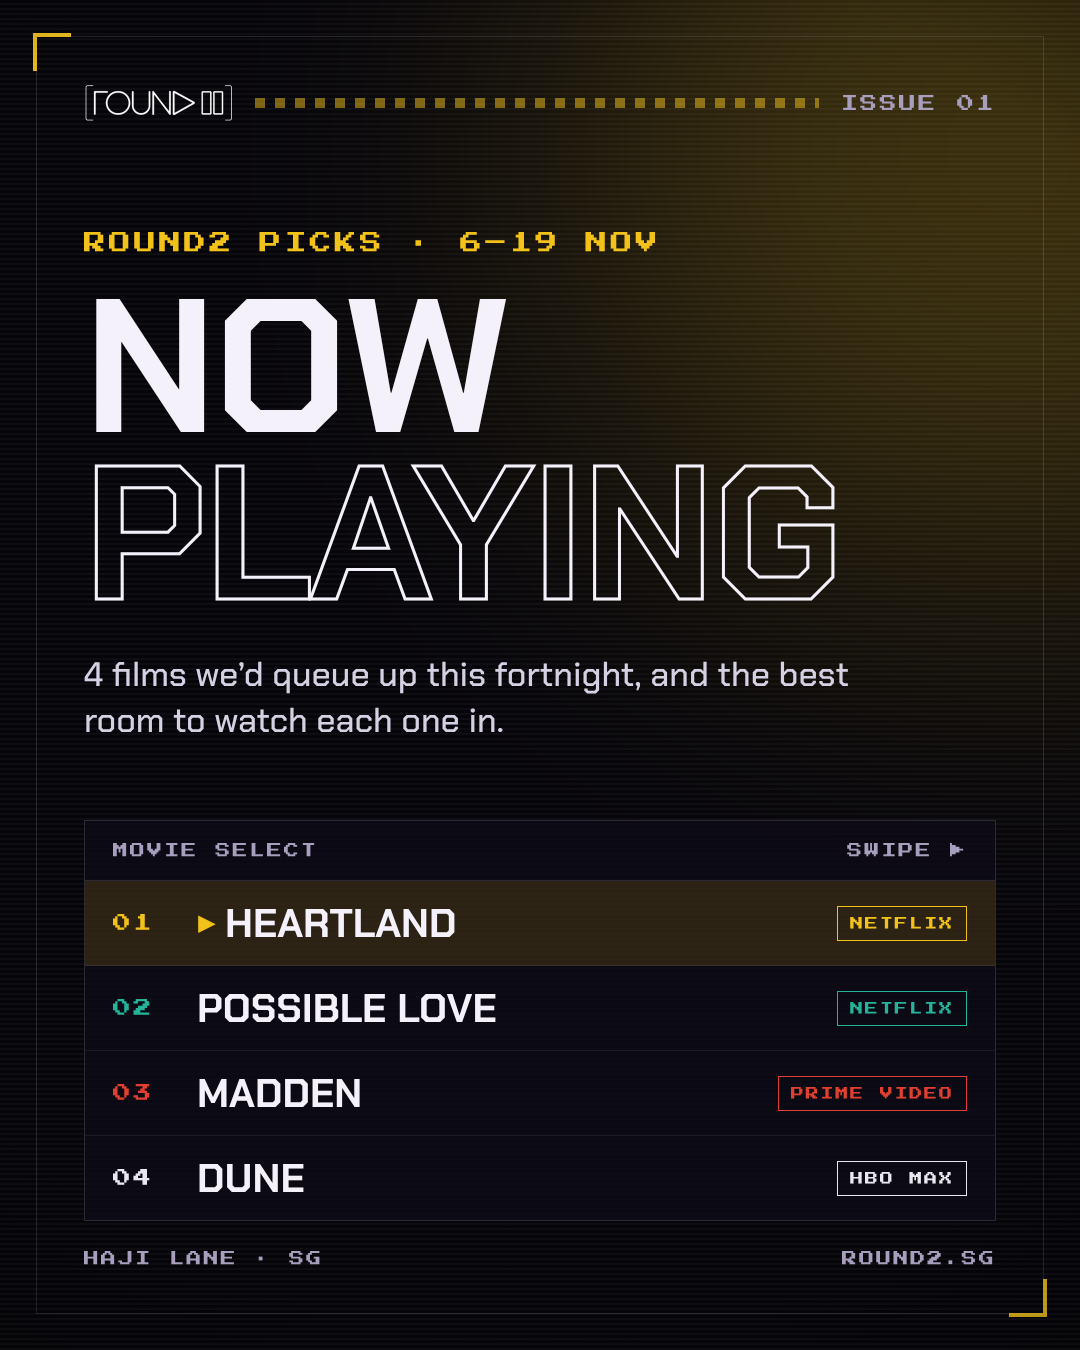
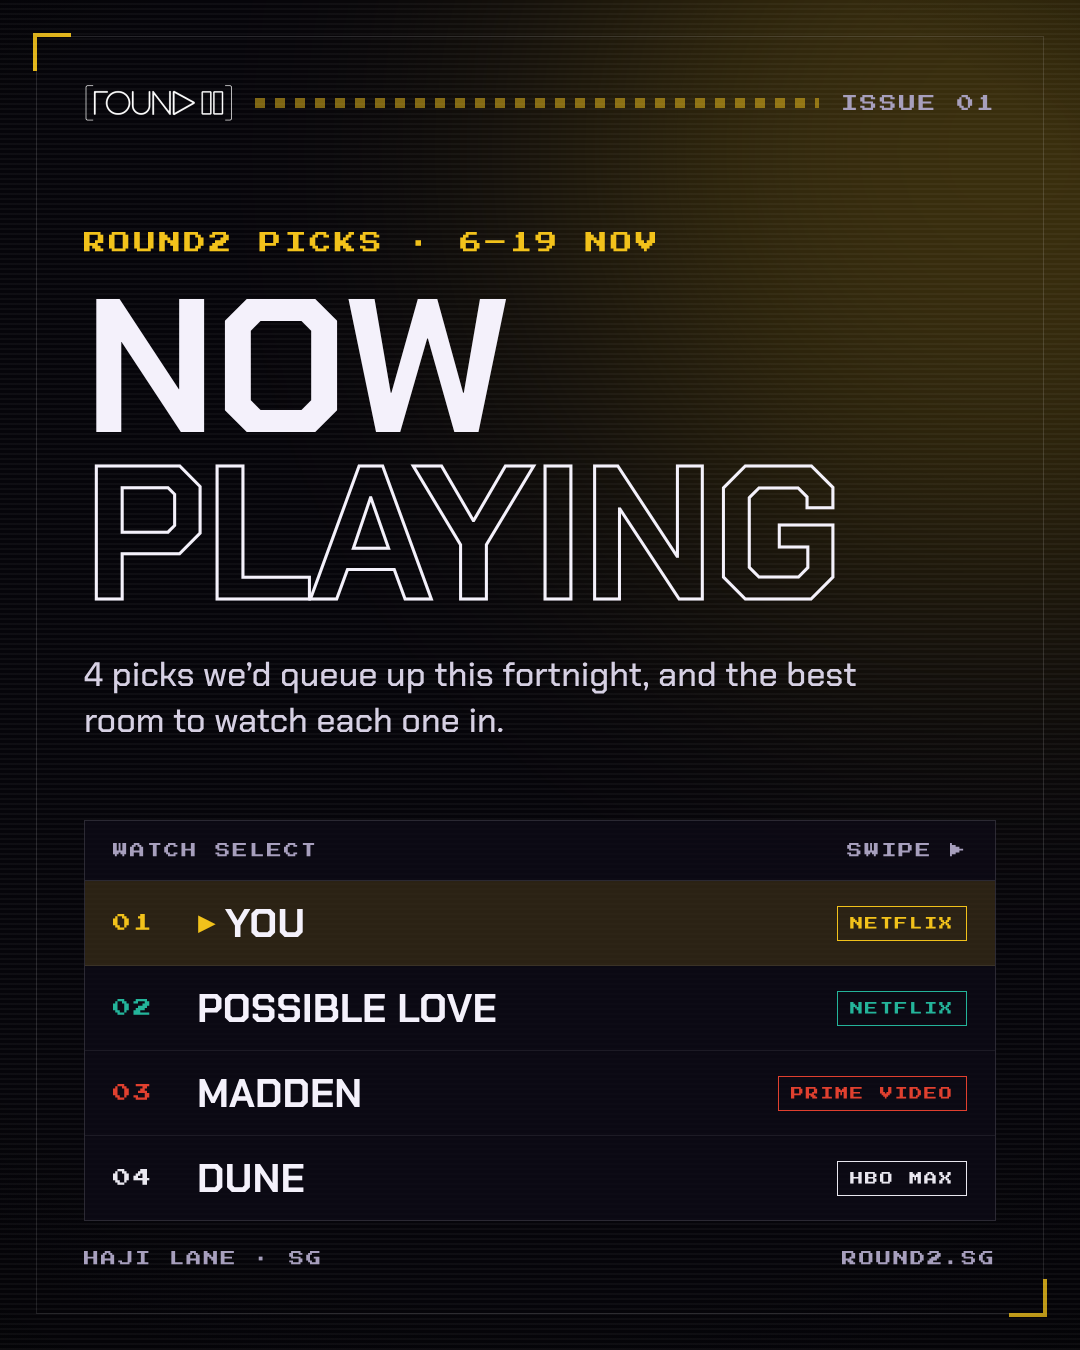
Round2 Picks: You (Netflix series, owner's poster) replaces Heartland
Claude-Session: https://claude.ai/code/session_01PDkwSCLDYKchcH27nujJvW

Changed region(s): [[0.1222, 0.4667, 0.7944, 0.5289], [0.2139, 0.6533, 0.4278, 0.7156], [0.1222, 0.6222, 0.1833, 0.6533]]

diff --git a/marketing/ig-movie-picks/index.html b/marketing/ig-movie-picks/index.html
@@ -113,9 +113,9 @@ const ISSUE = {
   dates: '6–19 Nov',
   // poster: drop the official poster or key art (landscape fills the screen; portrait sits centred on a blurred fill) into posters/ with this file name. Missing → 8-bit placeholder.
   picks: [
-    { title: 'Heartland', service: 'Netflix', when: 'New · 13 Nov', genre: 'Thriller', year: '2026',
-      why: 'Retired country star Misty Jones (Jessica Chastain) comes out of hiding to find her missing niece, and gets pulled into Nashville’s criminal underworld.',
-      room: 'Scarlett', poster: 'posters/heartland.jpg', sprite: 'house', },
+    { title: 'You', service: 'Netflix', when: 'All 5 seasons', genre: 'Thriller series', year: '2018–2025',
+      why: 'Bookstore manager Joe Goldberg (Penn Badgley) falls for a customer and will do anything, even kill, to make her his.',
+      room: 'Scarlett', poster: 'posters/you.jpg', sprite: 'heart', },
     { title: 'Possible Love', service: 'Netflix', when: 'New · 6 Nov', genre: 'Korean drama', year: '2026',
       why: 'A documentary filmmaker starts filming another married couple, and both marriages begin to crack. Lee Chang-dong’s first film in eight years.',
       room: 'Kai', poster: 'posters/possible-love.jpg', sprite: 'heart', },
@@ -183,8 +183,8 @@ function cover(){
   return frame('#F2C21B', '#0b0914', `${topBar('Issue ' + ISSUE.no)}
     <div class="cv-kicker px">Round2 Picks · ${esc(ISSUE.dates)}</div>
     <h1 class="cv-title">Now<span>Playing</span></h1>
-    <div class="cv-sub">${ISSUE.picks.length} films we’d queue up this fortnight, and the best room to watch each one in.</div>
-    <div class="select"><div class="hd px"><span>Movie select</span><span class="blink">Swipe ▶</span></div>${rows}</div>
+    <div class="cv-sub">${ISSUE.picks.length} picks we’d queue up this fortnight, and the best room to watch each one in.</div>
+    <div class="select"><div class="hd px"><span>Watch select</span><span class="blink">Swipe ▶</span></div>${rows}</div>
     <div class="cv-foot px"><span>Haji Lane · SG</span><span>round2.sg</span></div>`, 'right:-380px;top:-300px');
 }
 

diff --git a/marketing/ig-movie-picks/README.md b/marketing/ig-movie-picks/README.md
@@ -26,5 +26,5 @@ Marketing & design only. **Nothing here is used by the live site** – it lives 
 - Blurbs in our own words; no quotes from reviews.
 
 ## Issue 01 (6–19 Nov 2026)
-Heartland (Netflix, 13 Nov) → Scarlett · Possible Love (Netflix, 6 Nov) → Kai · Madden (Prime Video, 18 Nov) → Maximillion ·
+You (Netflix series, poster in posters/you.jpg) → Scarlett · Possible Love (Netflix, 6 Nov) → Kai · Madden (Prime Video, 18 Nov) → Maximillion ·
 Dune (HBO Max) → Atlas. Rooms picked to suit each film; no room descriptions on the slides. Posters not added yet. Dates from US release lists – confirm in the SG apps before posting.
